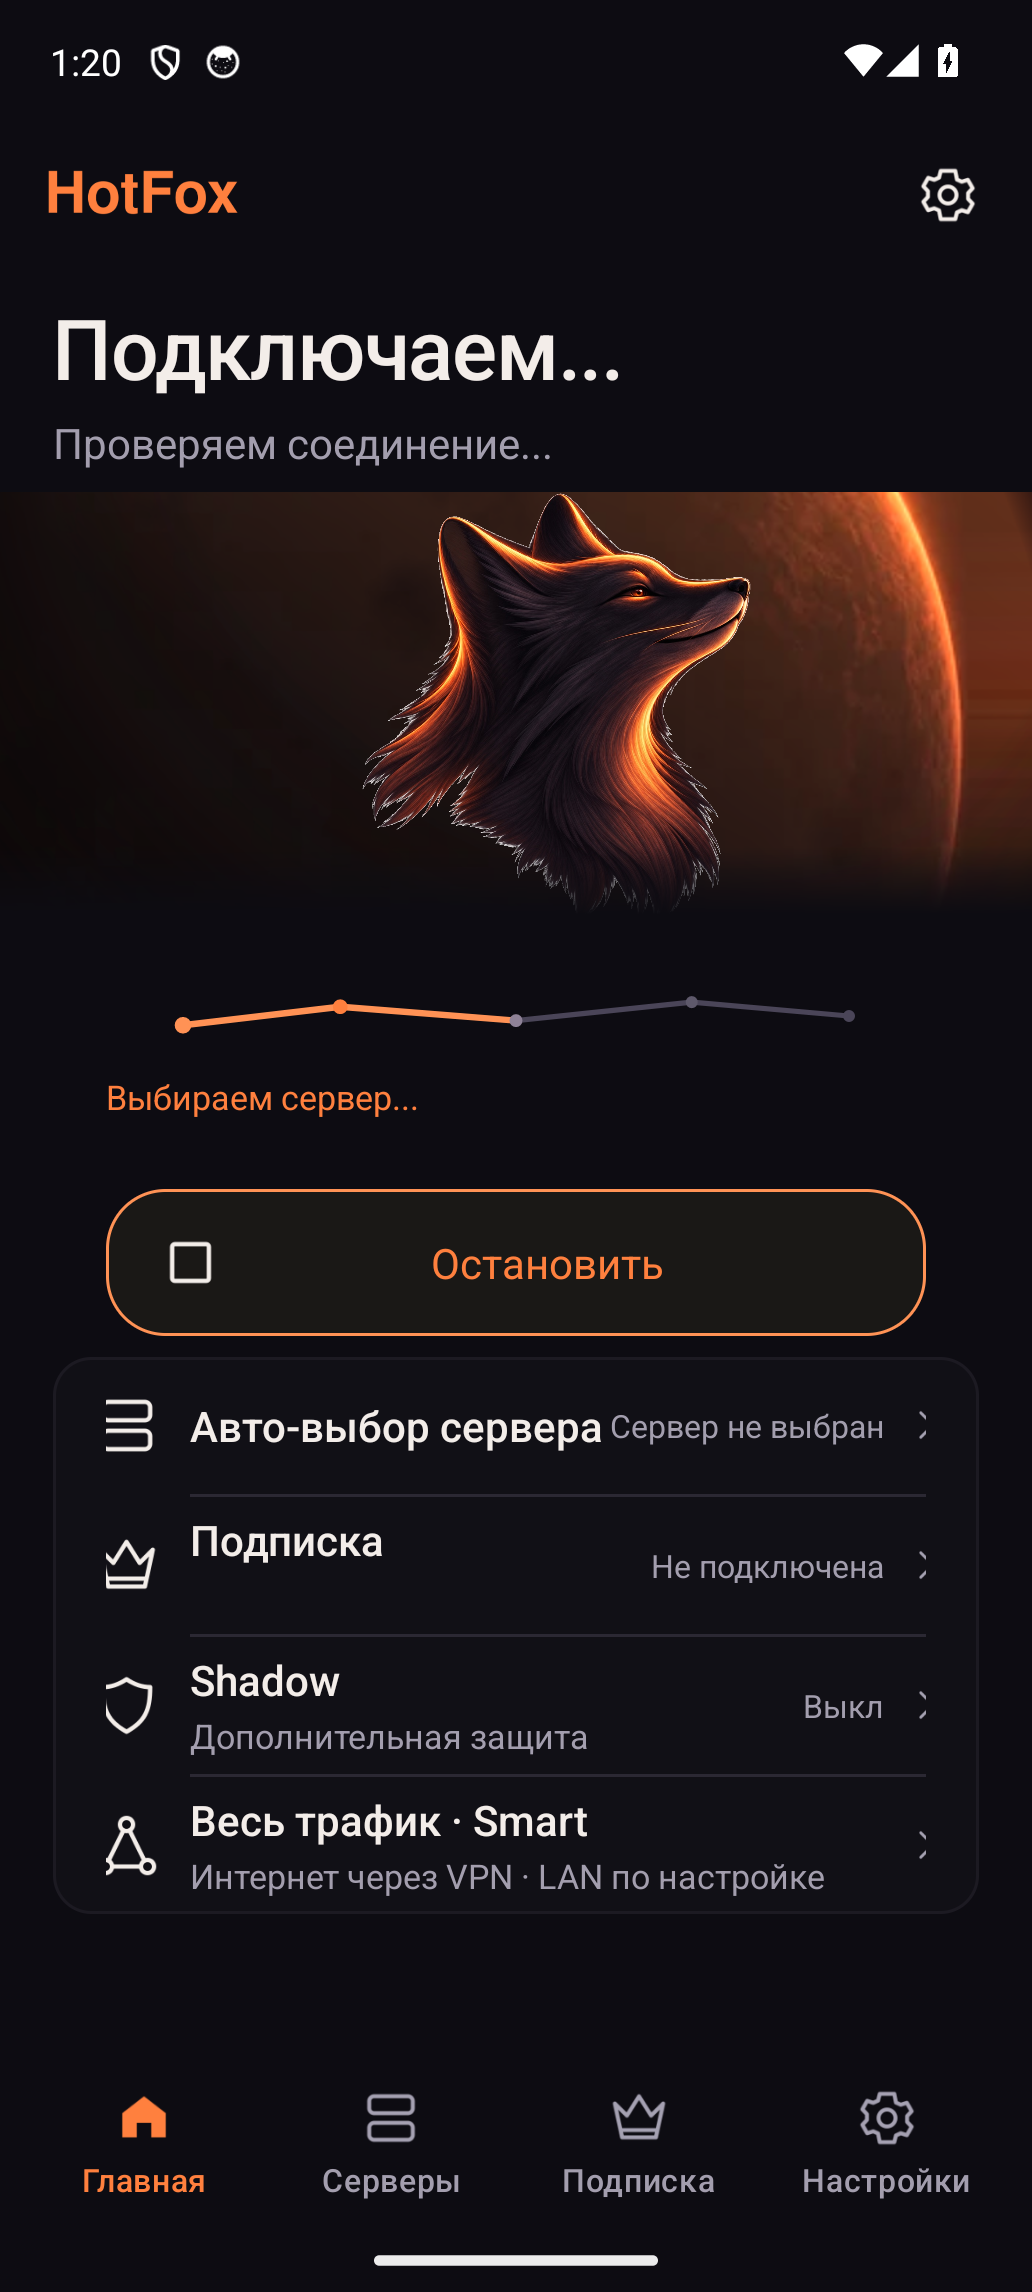
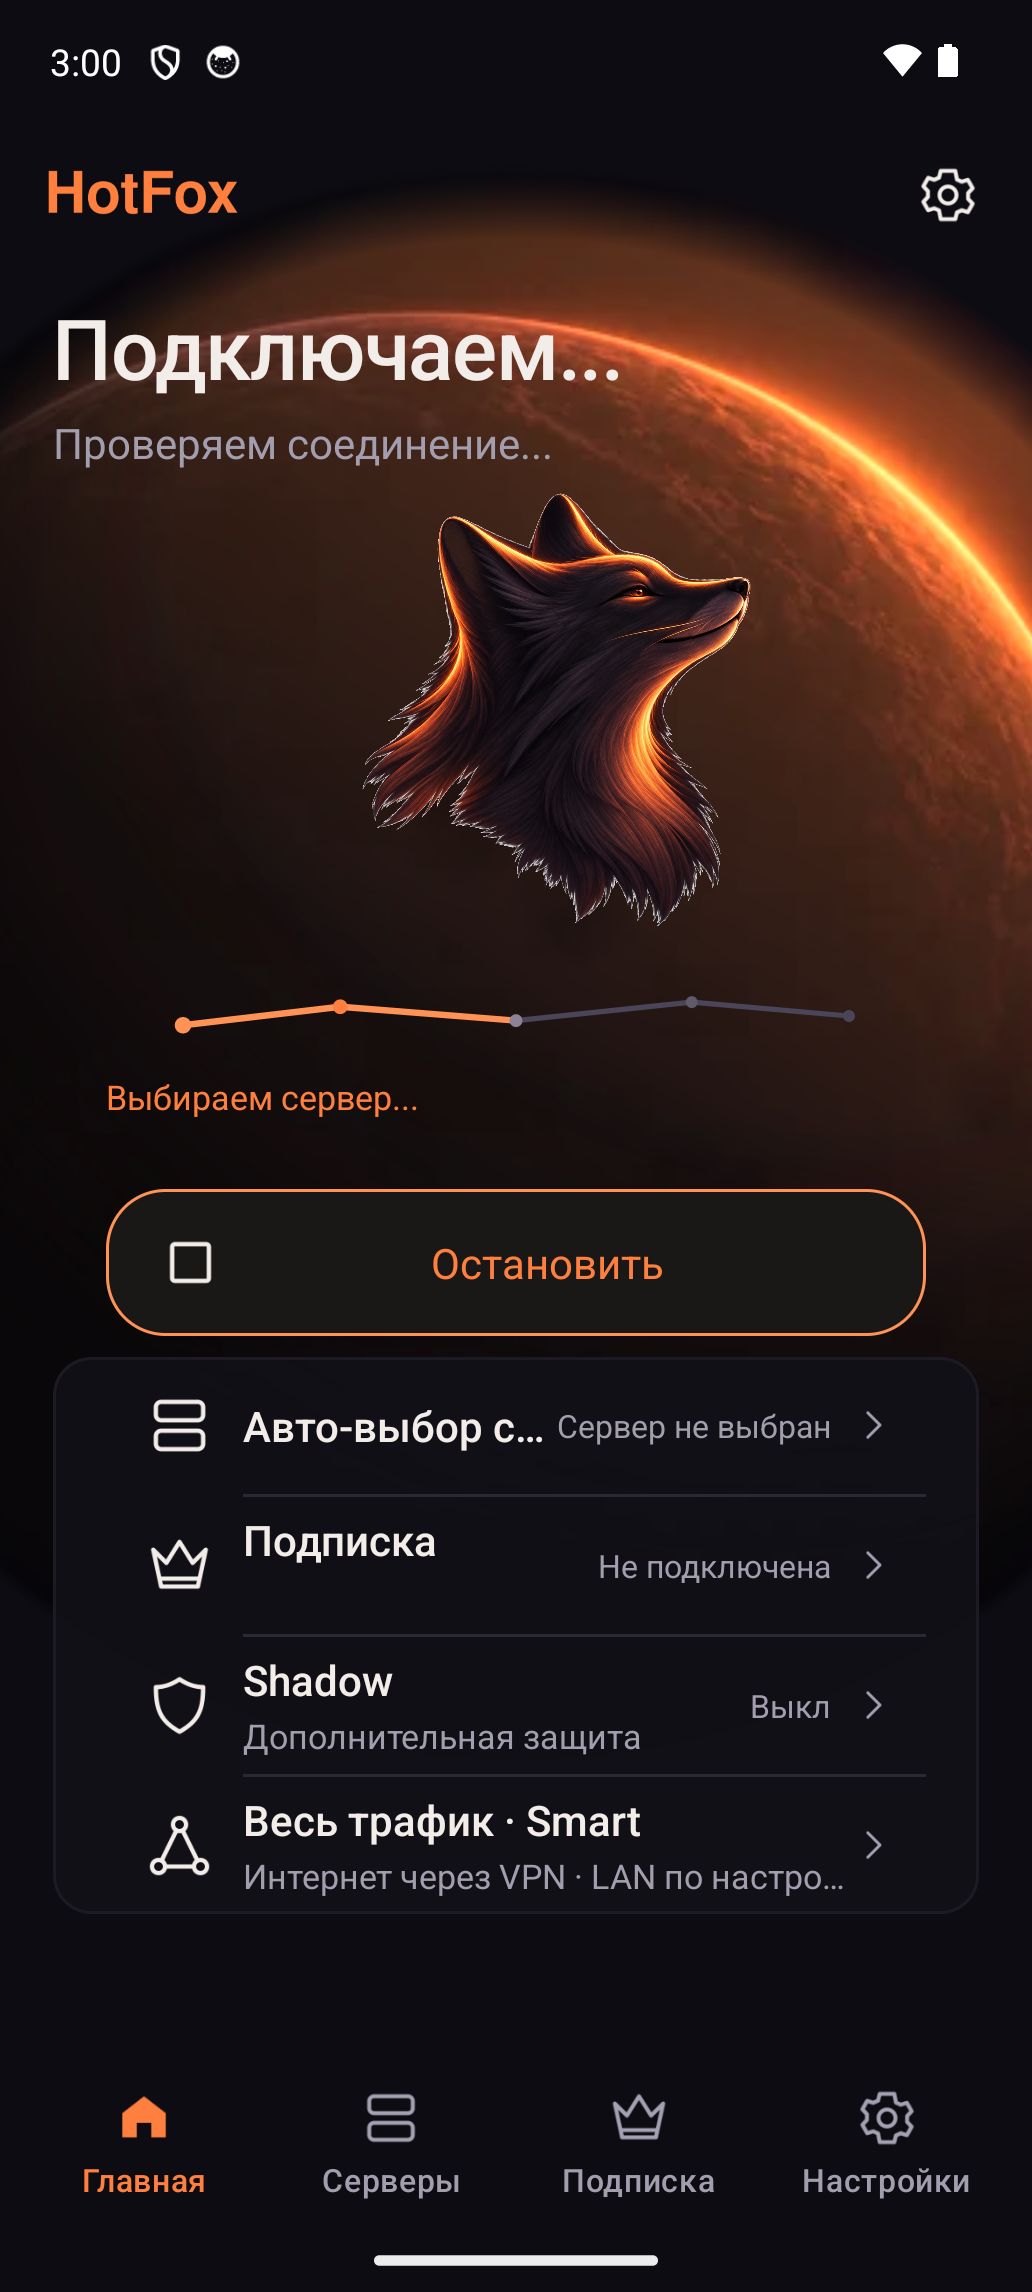
ui(v12): fill Home with the planet backdrop under all chrome
Keep the no-overlap Home scaffold. Draw hf_native_planet_backdrop as a
full-screen layer behind header, fox, state panel, cards and nav. Fox
stays in HeroSlot.

diff --git a/bootstrap/hotfox_2_2_0/app/src/main/java/com/v2ray/ang/ui/MainActivity.kt b/bootstrap/hotfox_2_2_0/app/src/main/java/com/v2ray/ang/ui/MainActivity.kt
@@ -320,7 +320,7 @@ class MainActivity : HelperBaseActivity(), NavigationView.OnNavigationItemSelect
         binding.screenSubscription.isVisible = section == UiSection.SUBSCRIPTION
         binding.root.findViewById<HotFoxHeroArtwork>(R.id.home_hero)?.isVisible =
             section == UiSection.CONNECTION
-        binding.root.findViewById<HotFoxHeroArtwork>(R.id.home_planet_backdrop)?.isVisible =
+        binding.root.findViewById<android.widget.ImageView>(R.id.home_planet_backdrop)?.isVisible =
             section == UiSection.CONNECTION
         binding.tvHeaderMicrocopy.text = when (section) {
             UiSection.CONNECTION -> getString(R.string.hotfox_header_microcopy_connection)
@@ -1211,7 +1211,7 @@ class MainActivity : HelperBaseActivity(), NavigationView.OnNavigationItemSelect
         headline: ConnectionUiMapper.Headline,
     ) {
         val hero = binding.root.findViewById<HotFoxHeroArtwork>(R.id.home_hero)
-        val backdrop = binding.root.findViewById<HotFoxHeroArtwork>(R.id.home_planet_backdrop)
+        val backdrop = binding.root.findViewById<android.widget.ImageView>(R.id.home_planet_backdrop)
         val ring = binding.root.findViewById<android.widget.ImageView>(R.id.img_art_ring)
         val rail = binding.root.findViewById<android.widget.ImageView>(R.id.img_connecting_rail)
         val stages = binding.root.findViewById<android.view.View>(R.id.layout_connecting_stages)
@@ -1224,8 +1224,6 @@ class MainActivity : HelperBaseActivity(), NavigationView.OnNavigationItemSelect
         backdrop?.isVisible = onHome
         hero?.setHeroLayers(showPlanet = false, showFox = true)
         hero?.setMode(HotFoxHeroMode.HOME_DISCONNECTED)
-        backdrop?.setHeroLayers(showPlanet = true, showFox = false)
-        backdrop?.setMode(HotFoxHeroMode.HOME_DISCONNECTED)
         when (visual) {
             ConnectionVisualState.CONNECTING -> {
                 rail?.isVisible = true

diff --git a/verification/ui_rebuild/capture_home_v12_no_overlap.py b/verification/ui_rebuild/capture_home_v12_no_overlap.py
@@ -26,7 +26,7 @@ NEEDLES = {
 }
 
 
-def adb(*args: str, timeout: int = 40) -> subprocess.CompletedProcess[str]:
+def adb(*args: str, timeout: int = 60) -> subprocess.CompletedProcess[str]:
     return subprocess.run(
         ["adb", "-s", SERIAL, *args],
         check=False,
@@ -63,8 +63,11 @@ def dismiss_anr() -> bool:
 
 
 def ui_text() -> str:
-    adb("shell", "uiautomator", "dump", "/sdcard/uidump.xml", timeout=25)
-    adb("pull", "/sdcard/uidump.xml", "/tmp/hotfox_uidump.xml", timeout=20)
+    try:
+        adb("shell", "uiautomator", "dump", "/sdcard/uidump.xml", timeout=60)
+        adb("pull", "/sdcard/uidump.xml", "/tmp/hotfox_uidump.xml", timeout=20)
+    except subprocess.TimeoutExpired:
+        return ""
     path = Path("/tmp/hotfox_uidump.xml")
     if not path.is_file():
         return ""
@@ -139,7 +142,7 @@ def capture_one(screen_id: str) -> Path:
         dump = ui_text()
         needles_ok = all(n in dump for n in NEEDLES[screen_id])
         anr = "isn't responding" in dump
-        if mean > 18 and std > 8 and needles_ok and not anr:
+        if mean > 10 and std > 6 and needles_ok and not anr:
             print(f"CAPTURED {screen_id} bytes={dest.stat().st_size} mean={mean:.1f}", flush=True)
             return dest
         last_err = f"mean={mean:.1f} std={std:.1f} needles={needles_ok} anr={anr}"
